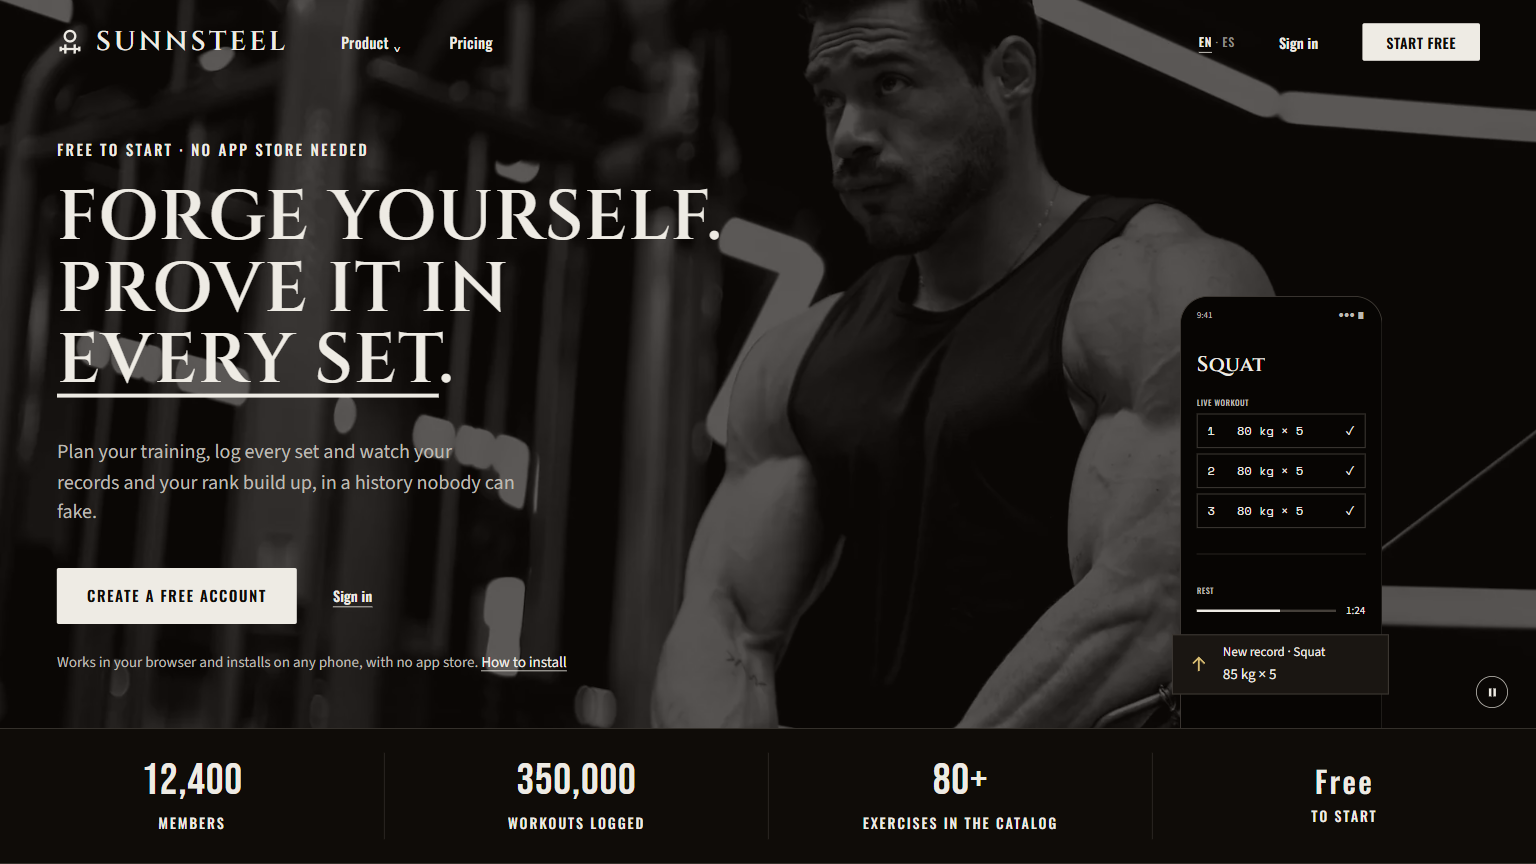
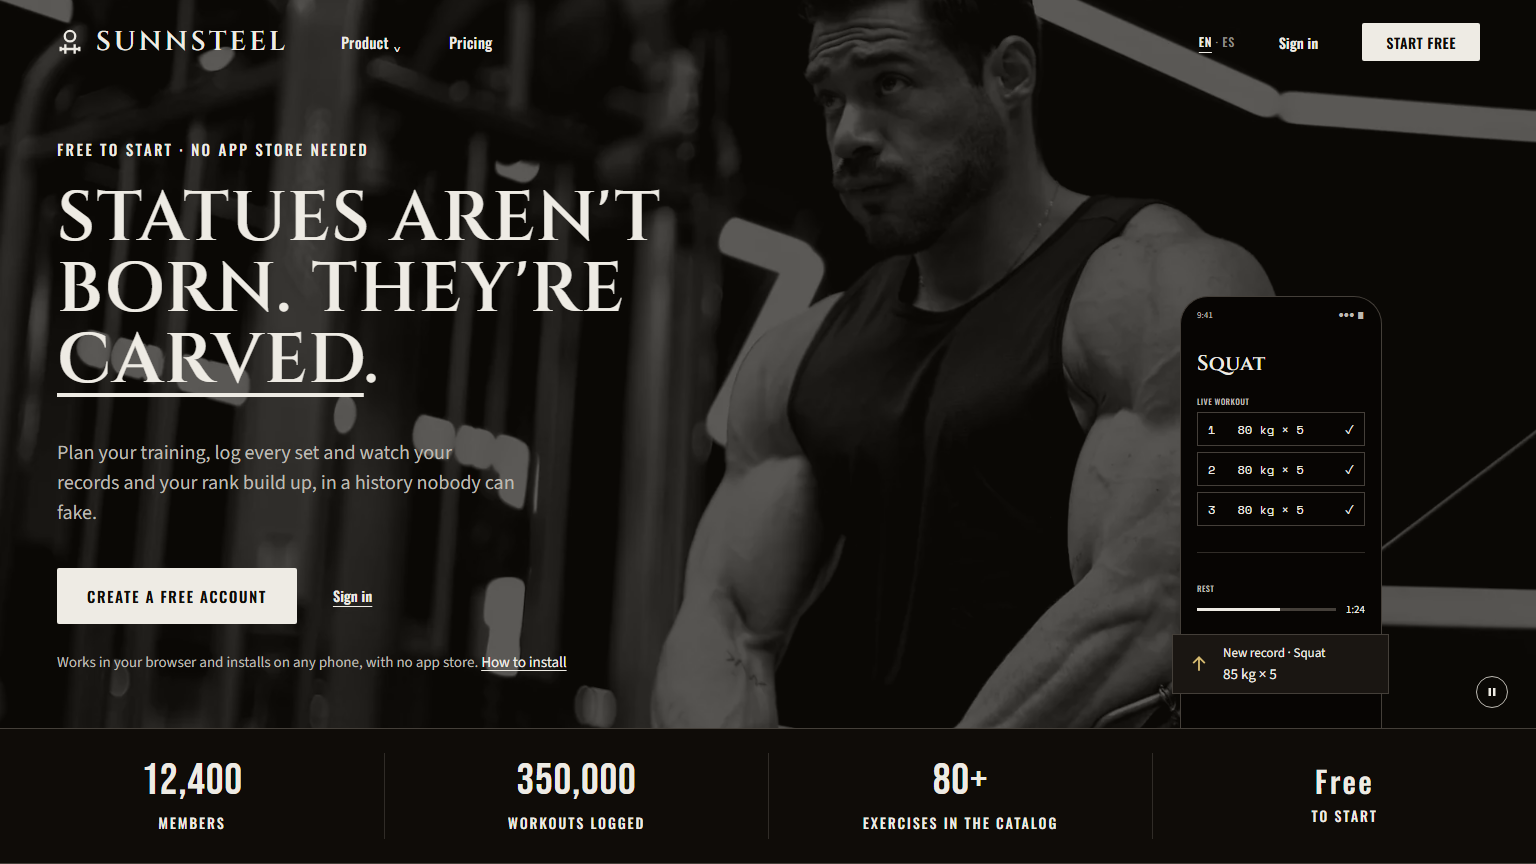
feat: the brand line is "Statues aren't born. They're carved."
The owner found "Forge yourself" corny and asked for a voice from today's
gym culture joined to the golden era and the Greek ideal of mind and
body. Of four lines tried over the real hero, the owner chose "Statues
aren't born. They're carved." / "Las estatuas no nacen. Se esculpen."
in Cinzel, with "Start carving." closing the page, and the same line in
the app: the splash's tagline and the dashboard's subtitle replace
"Forge Your Legacy" and "Forge your path". The approved comps are
redrawn with it; PRODUCT.md records the line and the headline voice.

diff --git a/.impeccable/mocks/src/comp-a-real.html b/.impeccable/mocks/src/comp-a-real.html
@@ -79,6 +79,11 @@
 	.desktop .cell .label { margin-top: 12px; font-size: 14px; letter-spacing: 0.14em; }
 	.desktop .cell.word .numeral { font-family: Oswald, sans-serif; font-weight: 500; font-size: 30px; letter-spacing: 0.08em; }
 
+	/* Brand-line trial: the headline in the condensed display face. */
+	.condensed .text h1 { font-family: 'Bebas Neue', sans-serif; font-weight: 400; letter-spacing: 0.01em; line-height: 0.9; }
+	.desktop.condensed .text h1 { font-size: 112px; }
+	.phone.condensed .text h1 { font-size: 58px; }
+
 	/* The phone mock-up: an original frame, the live session resting on the record. */
 	.device { position: absolute; z-index: 2; width: 202px; left: 1180px; top: 296px; height: 432px; border: 1.5px solid var(--rule); border-bottom: 0; border-radius: 28px 28px 0 0; background: oklch(0.118 0.009 70); padding: 12px 16px; }
 	.device .status { display: flex; justify-content: space-between; font-size: 9px; color: var(--ink-2); font-family: 'Source Sans 3'; }
@@ -177,7 +182,7 @@
 		en: {
 			product: 'Product ⌄', pricing: 'Pricing', signIn: 'Sign in', startFree: 'Start free',
 			eyebrow: 'Free to start · No app store needed',
-			headline: 'Forge yourself. Prove it in <mark>every set</mark>.',
+			headline: "Statues aren't born. They're <mark>carved</mark>.",
 			lead: 'Plan your training, log every set and watch your records and your rank build up, in a history nobody can fake.',
 			create: 'Create a free account',
 			install: 'Works in your browser and installs on any phone, with no app store. <a>How to install</a>',
@@ -187,7 +192,7 @@
 		es: {
 			product: 'Producto ⌄', pricing: 'Precios', signIn: 'Iniciar sesión', startFree: 'Empezar gratis',
 			eyebrow: 'Gratis para empezar · Sin tienda de apps',
-			headline: 'Fórjate. Demuéstralo en <mark>cada serie</mark>.',
+			headline: 'Las estatuas no nacen. <mark>Se esculpen</mark>.',
 			lead: 'Planifica tu entrenamiento, registra cada serie y mira crecer tus récords y tu rango, en un historial que nadie puede inventar.',
 			create: 'Crear cuenta gratis',
 			install: 'Funciona en el navegador y se instala en cualquier teléfono, sin tienda. <a>Cómo instalarla</a>',
@@ -195,8 +200,11 @@
 			n1: '12.400', l1: 'Miembros', n2: '350.000', l2: 'Entrenamientos registrados', l3: 'Ejercicios en el catálogo', n4: 'Gratis', l4: 'Para empezar',
 		},
 	}[lang]
+	// Brand-line trials: ?h=<headline html> replaces the headline, ?font=condensed
+	// sets it in Bebas Neue instead of Cinzel.
+	if (q.get('h')) T.headline = q.get('h')
 	document.documentElement.lang = lang
-	document.body.className = frame + (q.get('stack') === '1' ? ' stack' : '')
+	document.body.className = frame + (q.get('stack') === '1' ? ' stack' : '') + (q.get('font') === 'condensed' ? ' condensed' : '')
 	document.querySelectorAll('[data-t]').forEach(el => { el.innerHTML = T[el.dataset.t] })
 	document.querySelector('[data-lang]').innerHTML = lang === 'en' ? '<b>EN</b> · ES' : 'EN · <b>ES</b>'
 	document.querySelectorAll(frame === 'desktop' ? '[data-phone]' : '[data-desktop]').forEach(el => el.remove())

diff --git a/docs/site-01-landing-plan.md b/docs/site-01-landing-plan.md
@@ -460,7 +460,7 @@ Each phase ends in an owner approval before the next starts.
 | 16 | Reference review | Boostcamp's whole site reviewed before §12 is written (§13) |
 | 17 | Top bar | A Product menu with Features, Use cases and Plans columns, plus Pricing; transparent over the hero, solid after it (§12.1) |
 | 18 | Hero layout | Text with the animated live-session phone on desktop, text alone on phones (§12.2) |
-| 19 | Headline | "Forge yourself. Prove it in every set." / "Fórjate. Demuéstralo en cada serie." |
+| 19 | Headline | "Statues aren't born. They're carved." / "Las estatuas no nacen. Se esculpen." -- replaced "Forge yourself. Prove it in every set." on 2026-11-21 (row 41) |
 | 20 | Proof band | Two usage placeholders and two true facts, counting up, on the hero's dark ground; production swaps placeholders for reserve true facts (§12.3) |
 | 21 | Four verbs | A fixed stage on desktop, one phone pinned while the verbs scroll; "Planifica · Entrena · Mide · Gana"; Train shows plates and warm-ups (§12.4) |
 | 22 | Section 5 | A tools bento in place of "the workout, in motion": automatic progression large; rest, supersets and swapping small (§12.5) |
@@ -470,7 +470,7 @@ Each phase ends in an owner approval before the next starts.
 | 26 | People | Three animated scenes (activity, partners, messages) and a privacy band; message encryption answered in the questions (§12.9) |
 | 27 | Free and Pro | Two equal cards side by side (Free first on phones); "Try Pro free for 7 days" filled; the Pro intent carried through sign-up to `/plans`, charging nothing by itself (§12.10) |
 | 28 | Questions | One list of twelve, including messages not being end-to-end encrypted and what the AI receives; payment detail on `/pricing` (§12.11) |
-| 29 | Closing band | A second clip on desktop (poster on phones), "Empieza a forjarte.", and a desktop QR card that opens the site on a phone with an install helper (§12.12) |
+| 29 | Closing band | A second clip on desktop (poster on phones), "Start carving." / "Empieza a esculpir." (row 41), and a desktop QR card that opens the site on a phone with an install helper (§12.12) |
 | 30 | Footer | Site map, help, legal pages and the two legal buttons; no seller identification (§12.13) |
 | 31 | Public pages | Four templates and an outline per page, in one pass (§12.14–12.21) |
 | 32 | Feature pages | A guide under an animated header, worked examples computed from the product's own rules (§12.15–12.16) |
@@ -482,6 +482,8 @@ Each phase ends in an owner approval before the next starts.
 | 37 | Encouragement (2026-11-21) | Partner encouragement (`SOC-09`) never appears on the site -- "too corny"; the partners scene shows what partners share and the partner alert instead (§12.9) |
 | 39 | Footage (2026-11-21) | Real, licensed stock: Mixkit's free-licence series in a gym with machines, chosen for its more muscular, more serious models; led by the man, the woman in fewer shots; no chest-press or shoulder-press shots (§7.2) |
 | 40 | Video cut (2026-11-21) | The first cut approved as encoded: the desktop hero, the phone cut and the closing loop, with their posters, in `public/site/video/` (§12.2, §12.12) |
+| 41 | Brand line (2026-11-21) | "Fórjate" read as corny. The owner wants a voice from today's gym culture -- the gym-rat and teenage lifting scene of Gymshark, YoungLA, the Tren Twins and CBum -- harder-edged, joined to the golden era of bodybuilding, discipline, and the Greek ideal of resembling the gods in mind and body. Of four lines tried over the real hero (Olympus is earned; Statues aren't born, they're carved; Body of a god, mind of a philosopher; Discipline is the aesthetic) the owner chose **"Statues aren't born. They're carved." / "Las estatuas no nacen. Se esculpen."** in Cinzel, the closing band's "Start carving." / "Empieza a esculpir.", and the same line in the app (the splash's tagline and the dashboard's subtitle) |
+| 42 | Comps over the real footage (2026-11-21) | Approved: `.impeccable/mocks/comp-a-real-1536.png`, `-390-en.png`, `-390-es.png`, redrawn with row 41's line |
 
 **Open, from §34:** Pro is priced in ARS through Mercado Pago Argentina,
 which an international English audience may not be able to pay; how Pro is
@@ -641,7 +643,7 @@ offer and show both actions; at 1440, also show the product working.
 | Part | English | Spanish |
 | --- | --- | --- |
 | Eyebrow (label rank) | FREE TO START · NO APP STORE NEEDED | GRATIS PARA EMPEZAR · SIN TIENDA DE APPS |
-| Headline (`h1`) | Forge yourself. Prove it in **every set**. | Fórjate. Demuéstralo en **cada serie**. |
+| Headline (`h1`) | Statues aren't born. They're **carved**. | Las estatuas no nacen. **Se esculpen**. |
 | Subline *(draft)* | Plan your training, log every set and watch your records and your rank build up, in a history nobody can fake. | Planifica tu entrenamiento, registra cada serie y mira crecer tus récords y tu rango, en un historial que nadie puede inventar. |
 | Filled action | Create a free account → `/signup` | Crear cuenta gratis → `/signup` |
 | Ghost action | Sign in → `/login` | Iniciar sesión → `/login` |
@@ -670,7 +672,7 @@ decoration. The phone's record (below) is the viewport's one honour mark.
   about 530px of the 844, the bar included.
 - **Type** (from §33): the headline in a display rank of Cinzel 600 capitals,
   `clamp(30px, 8vw, 88px)`, line-height about 1.02, `text-wrap: balance`,
-  wrapping naturally ("DEMUÉSTRALO EN" is too wide for one line at 320);
+  wrapping naturally (measured at 390: three lines in both languages);
   the subline in a lead rank of Source Sans 3 at 18–20px, at most 52
   characters a line, in Night `--ink-2`; the eyebrow is the label rank; the
   install line body small.
@@ -686,7 +688,7 @@ decoration. The phone's record (below) is the viewport's one honour mark.
   1. 80ms: the eyebrow rises 12px and fades in over 700ms.
   2. 160, 250 and 340ms: the headline's three lines rise from behind a mask
      (each line clipped, translated from 100% to 0) over 900ms.
-  3. About 1.2s: the rule draws under "every set" / "cada serie" from the left
+  3. About 1.2s: the rule draws under "carved" / "se esculpen" from the left
      over 480ms (the rule draw at display scale; §33 records the longer
      duration).
   4. 600ms: the subline rises 12px and fades in over 700ms; 720ms: the
@@ -754,9 +756,9 @@ names, through [catalog.ts](../i18n/catalog.ts)), sets 1 and 2 done at 80 kg ×
 languages. No placeholder figures here; those are
 the proof band's (§12.3).
 
-**SEO.** The headline is the page's `h1`; the title is "Sunnsteel — Forge
-yourself. Prove it in every set." / "Sunnsteel — Fórjate. Demuéstralo en cada
-serie."; the description is the subline.
+**SEO.** The headline is the page's `h1`; the title is "Sunnsteel — Statues
+aren't born. They're carved." / "Sunnsteel — Las estatuas no nacen. Se
+esculpen."; the description is the subline.
 
 **Accessibility.** The video and the mock-up are `aria-hidden`; the video has
 no sound, so no captions. The pause control (44px, after the actions in the
@@ -1610,7 +1612,7 @@ matches the visible text; answers fit at 320 in Spanish.
 ### 12.12 Closing band — `SiteClosing`
 
 *Approved 2026-11-21: a second clip behind it on desktop (its
-poster on phones), the headline "Start forging yourself.", and a QR card on
+poster on phones), the headline "Start forging yourself." (since 2026-11-21 "Start carving.", row 41), and a QR card on
 desktop.*
 
 **Job.** The last push before the footer: the belief restated, the primary
@@ -1618,7 +1620,7 @@ action once more, and -- for a visitor on a computer -- a way to carry the
 site to the phone they will train with.
 
 **Content and copy** (`site.closing`).
-- `h2`: "Start forging yourself." / "Empieza a forjarte." -- the hero's
+- `h2`: "Start carving." / "Empieza a esculpir." -- the hero's
   headline closed into a circle.
 - Subline *(draft)*: "Free to start, in your browser, in English or Spanish."
   / "Gratis para empezar, en tu navegador, en español o inglés."
@@ -1868,7 +1870,7 @@ numbers could contradict.
 
 | Page | Title (EN / ES) |
 | --- | --- |
-| `/` | Sunnsteel — Forge yourself. Prove it in every set. / Sunnsteel — Fórjate. Demuéstralo en cada serie. |
+| `/` | Sunnsteel — Statues aren't born. They're carved. / Sunnsteel — Las estatuas no nacen. Se esculpen. |
 | `/features` | Features — Sunnsteel / Funciones — Sunnsteel |
 | `/features/<slug>` | <Feature> — Sunnsteel / <Función> — Sunnsteel |
 | `/use-cases/<level>` | Sunnsteel for <level> / Sunnsteel para <nivel> |

diff --git a/docs/site-01-copy-deck.md b/docs/site-01-copy-deck.md
@@ -63,7 +63,7 @@ in sentence case and set in capitals by their rank.
 | Key | English | Spanish |
 | --- | --- | --- |
 | `eyebrow` | Free to start · No app store needed | Gratis para empezar · Sin tienda de apps |
-| `headline` | Forge yourself. Prove it in `<mark>`every set`</mark>`. | Fórjate. Demuéstralo en `<mark>`cada serie`</mark>`. |
+| `headline` | Statues aren't born. They're `<mark>`carved`</mark>`. | Las estatuas no nacen. `<mark>`Se esculpen`</mark>`. |
 | `subline` | Plan, log every set, and watch your records and rank grow in a history nobody can fake. | Planifica, registra cada serie y mira crecer tus récords y tu rango en un historial que nadie puede inventar. |
 | `createAccount` | Create a free account | Crear cuenta gratis |
 | `signIn` | Sign in | Iniciar sesión |
@@ -71,13 +71,21 @@ in sentence case and set in capitals by their rank.
 | `pauseVideo` / `playVideo` | Pause background video / Play background video | Pausar el video de fondo / Reproducir el video de fondo |
 | `example` | Example | Ejemplo |
 | `recordCard` | New record · {exercise} {weight} × {reps} | Nuevo récord · {exercise} {weight} × {reps} |
-| `meta.title` | Sunnsteel — Forge yourself. Prove it in every set. | Sunnsteel — Fórjate. Demuéstralo en cada serie. |
+| `meta.title` | Sunnsteel — Statues aren't born. They're carved. | Sunnsteel — Las estatuas no nacen. Se esculpen. |
 | `meta.description` | A workout tracker where every set becomes evidence: plan, log, and watch records, ranks and your history grow. Free to start. | Un registro de entrenamiento donde cada serie es evidencia: planifica, registra y mira crecer tus récords, tu rango y tu historial. Gratis para empezar. |
 
 *Why this subline:* it names the three things a visitor does (plan, log,
 watch) and the one thing only Sunnsteel claims (a history nobody can fake),
 in about 90 characters, so it fits two lines at 390 in both languages. The
 Spanish uses *inventar* rather than *falsificar*, which reads as forgery.
+
+*Why this headline (the owner, 2026-11-21, replacing "Forge yourself. Prove
+it in every set.", which read as corny):* the Greek statue, the golden era's
+sculpting and the discipline of the gym in one line, said as process rather
+than a promise of results -- nobody is told what they will look like. It
+reads three lines at 390 in both languages, and the rule sits under
+*carved* / *Se esculpen*, the work. The closing band answers it with "Start
+carving." / "Empieza a esculpir."
 
 ## 3. Proof band — `site.proof`
 
@@ -289,7 +297,7 @@ approval (Safari's Spanish label varies by version).
 
 | Key | English | Spanish |
 | --- | --- | --- |
-| `heading` | Start forging yourself. | Empieza a forjarte. |
+| `heading` | Start carving. | Empieza a esculpir. |
 | `subline` | Free to start, in your browser, in English or Spanish. | Gratis para empezar, en tu navegador, en español o inglés. |
 | `createAccount` / `signIn` | Create a free account / Sign in | Crear cuenta gratis / Iniciar sesión |
 | `install` | How to install | Cómo instalarla |
@@ -307,7 +315,7 @@ approval (Safari's Spanish label varies by version).
 | Key | English | Spanish |
 | --- | --- | --- |
 | `navLabel` | Footer | Pie de página |
-| `tagline` | Forge yourself. Prove it in every set. | Fórjate. Demuéstralo en cada serie. |
+| `tagline` | Statues aren't born. They're carved. | Las estatuas no nacen. Se esculpen. |
 | `columns.product` / `useCases` / `help` / `legal` | Product / Use cases / Help / Legal | Producto / Casos de uso / Ayuda / Legal |
 | `links.questions` | Questions | Preguntas |
 | `links.install` | Install the app | Instalar la app |

diff --git a/.impeccable/surfaces/app-locale-site-page-tsx.md b/.impeccable/surfaces/app-locale-site-page-tsx.md
@@ -40,7 +40,7 @@ plan's §5; Pro tagged wherever named; build path comp-first.
 
 **Footage (2026-11-21):** Mixkit's free-licence gym-with-machines series, led by the man, no chest-press or shoulder-press shots (plan §7.2, §11 row 39).
 
-**Comp A over the real footage (2026-11-21, awaiting the owner's approval):** `.impeccable/mocks/comp-a-real-1536.png`, `comp-a-real-390-en.png` and `comp-a-real-390-es.png` -- comp A's composition redrawn over the approved poster frames (source `.impeccable/mocks/src/comp-a-real.html`). Once approved, the 1536 frame is the comp the build is measured against.
+**Approved comp over the real footage (2026-11-21):** `.impeccable/mocks/comp-a-real-1536.png`, with `comp-a-real-390-en.png` and `comp-a-real-390-es.png` for phones -- comp A's composition redrawn over the approved poster frames with the owner's brand line (source `.impeccable/mocks/src/comp-a-real.html`). The 1536 frame is the comp the build is measured against.
 
 ## Direction contract
 
@@ -48,7 +48,7 @@ THESIS: every set becomes evidence. The ground is real, serious training; the pr
 
 OWN-WORLD: the Night ground in both themes for hero and proof band; black-and-white footage on machines under one flat scrim (0.64, measured to 4.5:1 on the brightest frame); Cinzel 600 capitals for the one inscription, Oswald labels and the filled button, Source Sans 3 lead, Bebas Neue numerals; one ink-filled primary, ruled bands, hairlines, 2px radius; honour gold only on the record card.
 
-STORY: the visitor sees someone training, reads "Forge yourself. Prove it in every set.", watches the phone finish a set and log a record, and creates a free account, or signs in.
+STORY: the visitor sees someone training, reads "Statues aren't born. They're carved.", watches the phone finish a set and log a record, and creates a free account, or signs in.
 
 FIRST VIEWPORT: at 1536x864 a transparent bar (lockup, Product, Pricing; EN/ES, Sign in, Start free); the text column left -- eyebrow, three-line h1 near 70px with the rule under "every set", lead, Create a free account filled beside Sign in, install line; the live-session phone right on the hero's lower edge; the video full-bleed, its subject in the right two thirds; pause lower right; the four-cell ruled proof band at the foot. At 390x844 a 56px bar (lockup, Start free, menu), centred text, actions side by side in English and stacked in Spanish, the proof band 2x2 inside the viewport.
 

diff --git a/docs/roadmaps/product-roadmap.md b/docs/roadmaps/product-roadmap.md
@@ -3161,3 +3161,4 @@ decision. An ID is never reused.
 - **2026-11-21 (revision 332):** `SITE-01` phase 2: part 2 of the copy deck approved; three hero comps drawn, and comp A (the video full-bleed, the text over its dark side, the live-session phone on the lower right) approved by the owner, who rejected its AI-generated people as too artificial.
 - **2026-11-21 (revision 333):** `SITE-01`'s hero and closing-band footage is real, licensed stock instead of AI-generated: Mixkit's free-licence series in a gym with machines and LED-lit ceiling, chosen by the owner for its more muscular, more serious models, led by the man, with no chest-press or shoulder-press shots (plan §7.2, §11 row 39). Also renumbered revisions 329–331, which had repeated 328–330.
 - **2026-11-21 (revision 334):** `SITE-01`'s first video cut approved by the owner and committed in `public/site/video/`: the desktop hero montage (11.2 s, 2.8 MB MP4 / 0.8 MB AV1), the phone cut (7.9 s, 0.42 / 0.31 MB) and the closing loop (6.2 s, 0.75 / 0.24 MB), with posters, made by `scripts/generate-site-video.mjs` from masters kept outside the repository.
+- **2026-11-21 (revision 335):** The brand line changed at the owner's request: "Forge yourself. Prove it in every set." read as corny, and the site (`SITE-01` hero, title and footer) and the app (the splash's tagline and the dashboard's subtitle) now read "Statues aren't born. They're carved." / "Las estatuas no nacen. Se esculpen.", the closing band "Start carving." / "Empieza a esculpir." (plan §11 rows 41-42). The comps over the real footage are approved, and `PRODUCT.md` records the voice: short, hard-edged and classical in headlines, never a promise of results.

diff --git a/PRODUCT.md b/PRODUCT.md
@@ -34,6 +34,11 @@ that nobody can fake.
   the AI features describe the member's own logs and cite every number.
 - **Classical humanism × measurable training**: "Build yourself. Prove it
   through action." ([PRODUCT_VISION.md](../PRODUCT_VISION.md)).
+- **The brand line** (the owner, 2026-11-21): **"Statues aren't born.
+  They're carved." / "Las estatuas no nacen. Se esculpen."** -- today's gym
+  culture (the gym-rat and teenage lifting scene), the golden era of
+  bodybuilding and the Greek ideal of mind and body, said as discipline and
+  process. It heads the public site and the app's splash and dashboard.
 
 ## Operating Context
 
@@ -80,8 +85,9 @@ that nobody can fake.
   site's departures from it live only in its amendment §33 (a draft until
   approved). No other document is visual authority, and any DESIGN.md this
   project carries points there.
-- Voice: plain, exact, no hype words; headlines may be bolder than app copy,
-  never less true.
+- Voice: the app's copy stays plain and exact, with no hype words; headlines
+  speak the way the gym does -- short, hard-edged, classical -- and are never
+  a promise of results and never less true ("Fórjate" was dropped as corny).
 - Every capability Pro unlocks is labelled Pro where it is named.
 
 ## Evidence on Hand
